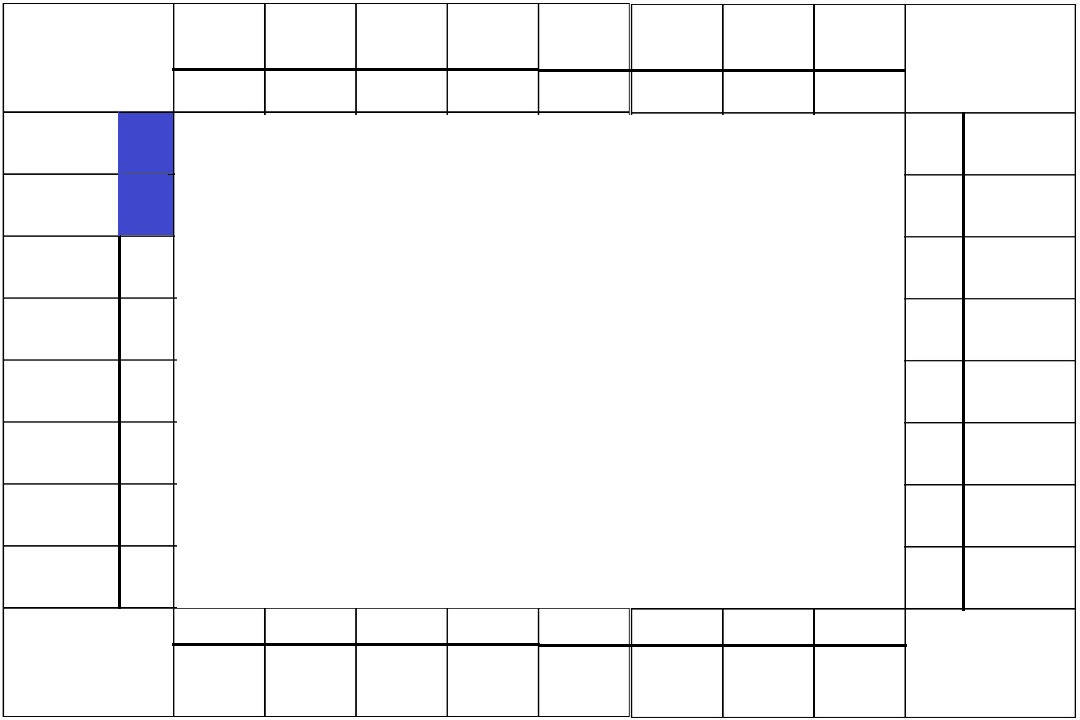
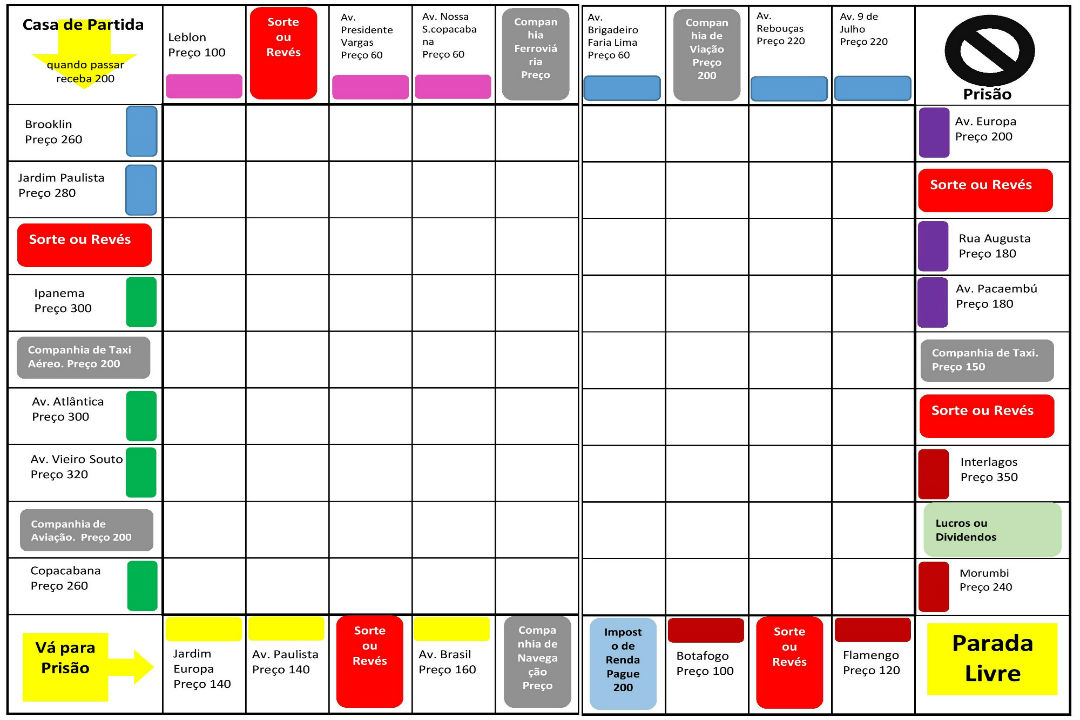
posicao do tabuleiro ja adicionado as casas

diff --git a/Banco_Imobiliario/src/br/com/ufc/es/BancoImb/model/Tabuleiro.java b/Banco_Imobiliario/src/br/com/ufc/es/BancoImb/model/Tabuleiro.java
@@ -28,46 +28,46 @@ public class Tabuleiro {
 	}
 
 	public void criarCasasNoTabuleiro() {
-		tabuleiro.add(new LugarEspecial_Partida("Partida", new Point(32, 26)));														//POSICAO 00
-		tabuleiro.add(new LogradouroComercializavel_Imovel("Brooklin", 260 , 260, new Point(25, 117)));								//POSICAO 01
-		tabuleiro.add(new LogradouroComercializavel_Imovel("Jardim_Paulista", 280 , 280, new Point(32, 179)));						//POSICAO 02
-		tabuleiro.add(new LugarEspecial_SorteReves("Sorte_Reves", new Point(17, 270)));												//POSICAO 03
-		tabuleiro.add(new LogradouroComercializavel_Imovel("Ipanema", 300 , 300, new Point(18, 333)));								//POSICAO 04
-		tabuleiro.add(new LogradouroComercializavel_Empresa("Companhia_Taxi_Aereo", 200 , 200, new Point(21, 393)));					//POSICAO 05
-		tabuleiro.add(new LogradouroComercializavel_Imovel("Avendia_Atlantica", 300 , 300, new Point(28, 456)));						//POSICAO 06
-		tabuleiro.add(new LogradouroComercializavel_Imovel("Avendia_Vieira_Souto", 320 , 320, new Point(22, 513)));					//POSICAO 07
-		tabuleiro.add(new LogradouroComercializavel_Empresa("Companhia_De_Aviacao", 200 , 200, new Point(20, 558)));					//POSICAO 08
-		tabuleiro.add(new LogradouroComercializavel_Imovel("Copacabana", 260 , 260, new Point(15, 653)));							//POSICAO 09
-		tabuleiro.add(new LugarEspecial_VaParaAPrisao("Va_Para_A_Prisao", new Point(32, 26)));										//POSICAO 10
-		tabuleiro.add(new LogradouroComercializavel_Imovel("Jardim_Europa", 140, 14, new Point(32, 26)));							//POSICAO 11
-		tabuleiro.add(new LogradouroComercializavel_Imovel("Avendia_Paulista", 140 , 140, new Point(32, 26)));						//POSICAO 12
-		tabuleiro.add(new LugarEspecial_SorteReves("Sorte_Reves", new Point(32, 26)));												//POSICAO 13
-		tabuleiro.add(new LogradouroComercializavel_Imovel("Avendia_Brasil", 160 , 160, new Point(32, 26)));						//POSICAO 14
-		tabuleiro.add(new LogradouroComercializavel_Empresa("Companhia_De_Navegacao", 150 , 150, new Point(32, 26)));				//POSICAO 15
-		tabuleiro.add(new LugarEspecial_ImpostoDeRenda("Imposto_De_Renda", new Point(32, 26)));										//POSICAO 16
-		tabuleiro.add(new LogradouroComercializavel_Imovel("Botafogo", 100 , 100, new Point(32, 26)));								//POSICAO 17
-		tabuleiro.add(new LugarEspecial_SorteReves("Sorte_Reves", new Point(32, 26)));												//POSICAO 18
-		tabuleiro.add(new LogradouroComercializavel_Imovel("Flamengo", 120 , 120, new Point(32, 26)));								//POSICAO 19
-		tabuleiro.add(new LugarEspecial_ParadaLivre("Parada_Livre", new Point(32, 26)));											//POSICAO 20
-		tabuleiro.add(new LogradouroComercializavel_Imovel("Morumbi", 120 , 120, new Point(32, 26)));								//POSICAO 21
-		tabuleiro.add(new LugarEspecial_LucrosEDividendos("Lucros_E_Dividendos", new Point(32, 26)));								//POSICAO 22
-		tabuleiro.add(new LogradouroComercializavel_Imovel("Interlagos", 120 , 120, new Point(32, 26)));							//POSICAO 23
-		tabuleiro.add(new LugarEspecial_SorteReves("Sorte_Reves", new Point(32, 26)));												//POSICAO 24
-		tabuleiro.add(new LogradouroComercializavel_Empresa("Companhia_De_Taxi", 150 , 150, new Point(32, 26)));					//POSICAO 25
-		tabuleiro.add(new LogradouroComercializavel_Imovel("Avenida_Pacaembu", 180 , 180, new Point(32, 26)));						//POSICAO 26
-		tabuleiro.add(new LogradouroComercializavel_Imovel("Rua_Augusta", 180 , 180, new Point(32, 26)));							//POSICAO 27
-		tabuleiro.add(new LugarEspecial_SorteReves("Sorte_Reves", new Point(32, 26)));												//POSICAO 28
-		tabuleiro.add(new LogradouroComercializavel_Imovel("Avenida_Europa", 200 , 200, new Point(32, 26)));						//POSICAO 29
-		tabuleiro.add(new LugarEspecial_Prisao("Prisao", new Point(32, 26)));														//POSICAO 30
-		tabuleiro.add(new LogradouroComercializavel_Imovel("Avenida_9_De_Julho", 220 , 220, new Point(32, 26)));					//POSICAO 31
-		tabuleiro.add(new LogradouroComercializavel_Imovel("Avenida_Reboucas", 220 , 220, new Point(32, 26)));						//POSICAO 32
-		tabuleiro.add(new LogradouroComercializavel_Empresa("Companhia_De_Viacao", 200 , 200, new Point(32, 26)));					//POSICAO 33
-		tabuleiro.add(new LogradouroComercializavel_Imovel("Avenida_Brigadeiro_Faria_Lima", 240 , 240, new Point(32, 26)));			//POSICAO 34
-		tabuleiro.add(new LogradouroComercializavel_Empresa("Companhia_Ferroviaria", 200 , 200, new Point(32, 26)));				//POSICAO 35
-		tabuleiro.add(new LogradouroComercializavel_Imovel("Avenida_Nossa_Senhora_De_Copacabana", 60 , 60, new Point(32, 26)));		//POSICAO 36
-		tabuleiro.add(new LogradouroComercializavel_Imovel("Avenida_Presidente_Vargas", 60 , 60, new Point(32, 26)));				//POSICAO 37
-		tabuleiro.add(new LugarEspecial_SorteReves("Sorte_Reves", new Point(32, 26)));												//POSICAO 38
-		tabuleiro.add(new LogradouroComercializavel_Imovel("Leblon", 100 , 100, new Point(32, 26)));								//POSICAO 39
+		tabuleiro.add(new LugarEspecial_Partida("Partida", new Point(13, 12)));														//POSICAO 00
+		tabuleiro.add(new LogradouroComercializavel_Imovel("Brooklin", 260 , 260, new Point(13, 107)));								//POSICAO 01
+		tabuleiro.add(new LogradouroComercializavel_Imovel("Jardim_Paulista", 280 , 280, new Point(13, 164)));						//POSICAO 02
+		tabuleiro.add(new LugarEspecial_SorteReves("Sorte_Reves", new Point(13,224)));												//POSICAO 03
+		tabuleiro.add(new LogradouroComercializavel_Imovel("Ipanema", 300 , 300, new Point(13, 281)));								//POSICAO 04
+		tabuleiro.add(new LogradouroComercializavel_Empresa("Companhia_Taxi_Aereo", 200 , 200, new Point(13, 336)));					//POSICAO 05
+		tabuleiro.add(new LogradouroComercializavel_Imovel("Avendia_Atlantica", 300 , 300, new Point(13, 393)));						//POSICAO 06
+		tabuleiro.add(new LogradouroComercializavel_Imovel("Avendia_Vieira_Souto", 320 , 320, new Point(13, 446)));					//POSICAO 07
+		tabuleiro.add(new LogradouroComercializavel_Empresa("Companhia_De_Aviacao", 200 , 200, new Point(13, 504)));					//POSICAO 08
+		tabuleiro.add(new LogradouroComercializavel_Imovel("Copacabana", 260 , 260, new Point(13, 563)));							//POSICAO 09
+		tabuleiro.add(new LugarEspecial_VaParaAPrisao("Va_Para_A_Prisao", new Point(13, 629)));										//POSICAO 10
+		tabuleiro.add(new LogradouroComercializavel_Imovel("Jardim_Europa", 140, 14, new Point(165, 643)));							//POSICAO 11
+		tabuleiro.add(new LogradouroComercializavel_Imovel("Avendia_Paulista", 140 , 140, new Point(248, 643)));						//POSICAO 12
+		tabuleiro.add(new LugarEspecial_SorteReves("Sorte_Reves", new Point(332, 643)));												//POSICAO 13
+		tabuleiro.add(new LogradouroComercializavel_Imovel("Avendia_Brasil", 160 , 160, new Point(416, 643)));						//POSICAO 14
+		tabuleiro.add(new LogradouroComercializavel_Empresa("Companhia_De_Navegacao", 150 , 150, new Point(498, 643)));				//POSICAO 15
+		tabuleiro.add(new LugarEspecial_ImpostoDeRenda("Imposto_De_Renda", new Point(584, 643)));										//POSICAO 16
+		tabuleiro.add(new LogradouroComercializavel_Imovel("Botafogo", 100 , 100, new Point(668, 643)));								//POSICAO 17
+		tabuleiro.add(new LugarEspecial_SorteReves("Sorte_Reves", new Point(754, 643)));												//POSICAO 18
+		tabuleiro.add(new LogradouroComercializavel_Imovel("Flamengo", 120 , 120, new Point(838, 643)));								//POSICAO 19
+		tabuleiro.add(new LugarEspecial_ParadaLivre("Parada_Livre", new Point(926, 643)));											//POSICAO 20
+		tabuleiro.add(new LogradouroComercializavel_Imovel("Morumbi", 120 , 120, new Point(948, 563)));								//POSICAO 21
+		tabuleiro.add(new LugarEspecial_LucrosEDividendos("Lucros_E_Dividendos", new Point(948, 511)));								//POSICAO 22
+		tabuleiro.add(new LogradouroComercializavel_Imovel("Interlagos", 120 , 120, new Point(948, 452)));							//POSICAO 23
+		tabuleiro.add(new LugarEspecial_SorteReves("Sorte_Reves", new Point(948, 394)));												//POSICAO 24
+		tabuleiro.add(new LogradouroComercializavel_Empresa("Companhia_De_Taxi", 150 , 150, new Point(948, 339)));					//POSICAO 25
+		tabuleiro.add(new LogradouroComercializavel_Imovel("Avenida_Pacaembu", 180 , 180, new Point(948, 280)));						//POSICAO 26
+		tabuleiro.add(new LogradouroComercializavel_Imovel("Rua_Augusta", 180 , 180, new Point(948, 220)));							//POSICAO 27
+		tabuleiro.add(new LugarEspecial_SorteReves("Sorte_Reves", new Point(948, 167)));												//POSICAO 28
+		tabuleiro.add(new LogradouroComercializavel_Imovel("Avenida_Europa", 200 , 200, new Point(948, 108)));						//POSICAO 29
+		tabuleiro.add(new LugarEspecial_Prisao("Prisao", new Point(937, 10)));														//POSICAO 30
+		tabuleiro.add(new LogradouroComercializavel_Imovel("Avenida_9_De_Julho", 220 , 220, new Point(837, 10)));					//POSICAO 31
+		tabuleiro.add(new LogradouroComercializavel_Imovel("Avenida_Reboucas", 220 , 220, new Point(758, 10)));						//POSICAO 32
+		tabuleiro.add(new LogradouroComercializavel_Empresa("Companhia_De_Viacao", 200 , 200, new Point(676, 10)));					//POSICAO 33
+		tabuleiro.add(new LogradouroComercializavel_Imovel("Avenida_Brigadeiro_Faria_Lima", 240 , 240, new Point(591, 10)));			//POSICAO 34
+		tabuleiro.add(new LogradouroComercializavel_Empresa("Companhia_Ferroviaria", 200 , 200, new Point(502, 10)));				//POSICAO 35
+		tabuleiro.add(new LogradouroComercializavel_Imovel("Avenida_Nossa_Senhora_De_Copacabana", 60 , 60, new Point(418, 10)));		//POSICAO 36
+		tabuleiro.add(new LogradouroComercializavel_Imovel("Avenida_Presidente_Vargas", 60 , 60, new Point(341, 10)));				//POSICAO 37
+		tabuleiro.add(new LugarEspecial_SorteReves("Sorte_Reves", new Point(253, 10)));												//POSICAO 38
+		tabuleiro.add(new LogradouroComercializavel_Imovel("Leblon", 100 , 100, new Point(171, 10)));								//POSICAO 39
 	}
 
 	public void adiconarJogadoresACasa(int indice, Jogador jogador) {

diff --git a/Banco_Imobiliario/src/br/com/ufc/es/BancoImb/control/Controlador_Banco_Imobiliario.java b/Banco_Imobiliario/src/br/com/ufc/es/BancoImb/control/Controlador_Banco_Imobiliario.java
@@ -74,6 +74,12 @@ public class Controlador_Banco_Imobiliario extends JFrame{
 	}
 	public void moverJogador(Jogador jogador, CasaDoTabuleiro casa){
 		tabuleiroJogo.moverJogador(jogador, casa);
+		
+		Point posicao = casa.getPosicao();
+        System.out.println("Position: " + posicao);
+        System.out.println(posicao.getX() + " | " + posicao.getY());
+        peca.x = posicao.x;  
+        peca.y = posicao.y;  
 	}
 	
 	public void inserirJogadorNaCasa(int posicao, Jogador jogador) {
@@ -157,7 +163,7 @@ public class Controlador_Banco_Imobiliario extends JFrame{
             {  
                 Point posicao = mouse.getPosition();
                 System.out.println("Position: " + posicao);
-                System.out.println(posicao.getX() + " | " + posicao.getY());
+                System.out.println(posicao.getX() + "," + posicao.getY());
                 peca.x = posicao.x;  
                 peca.y = posicao.y;  
             } 
